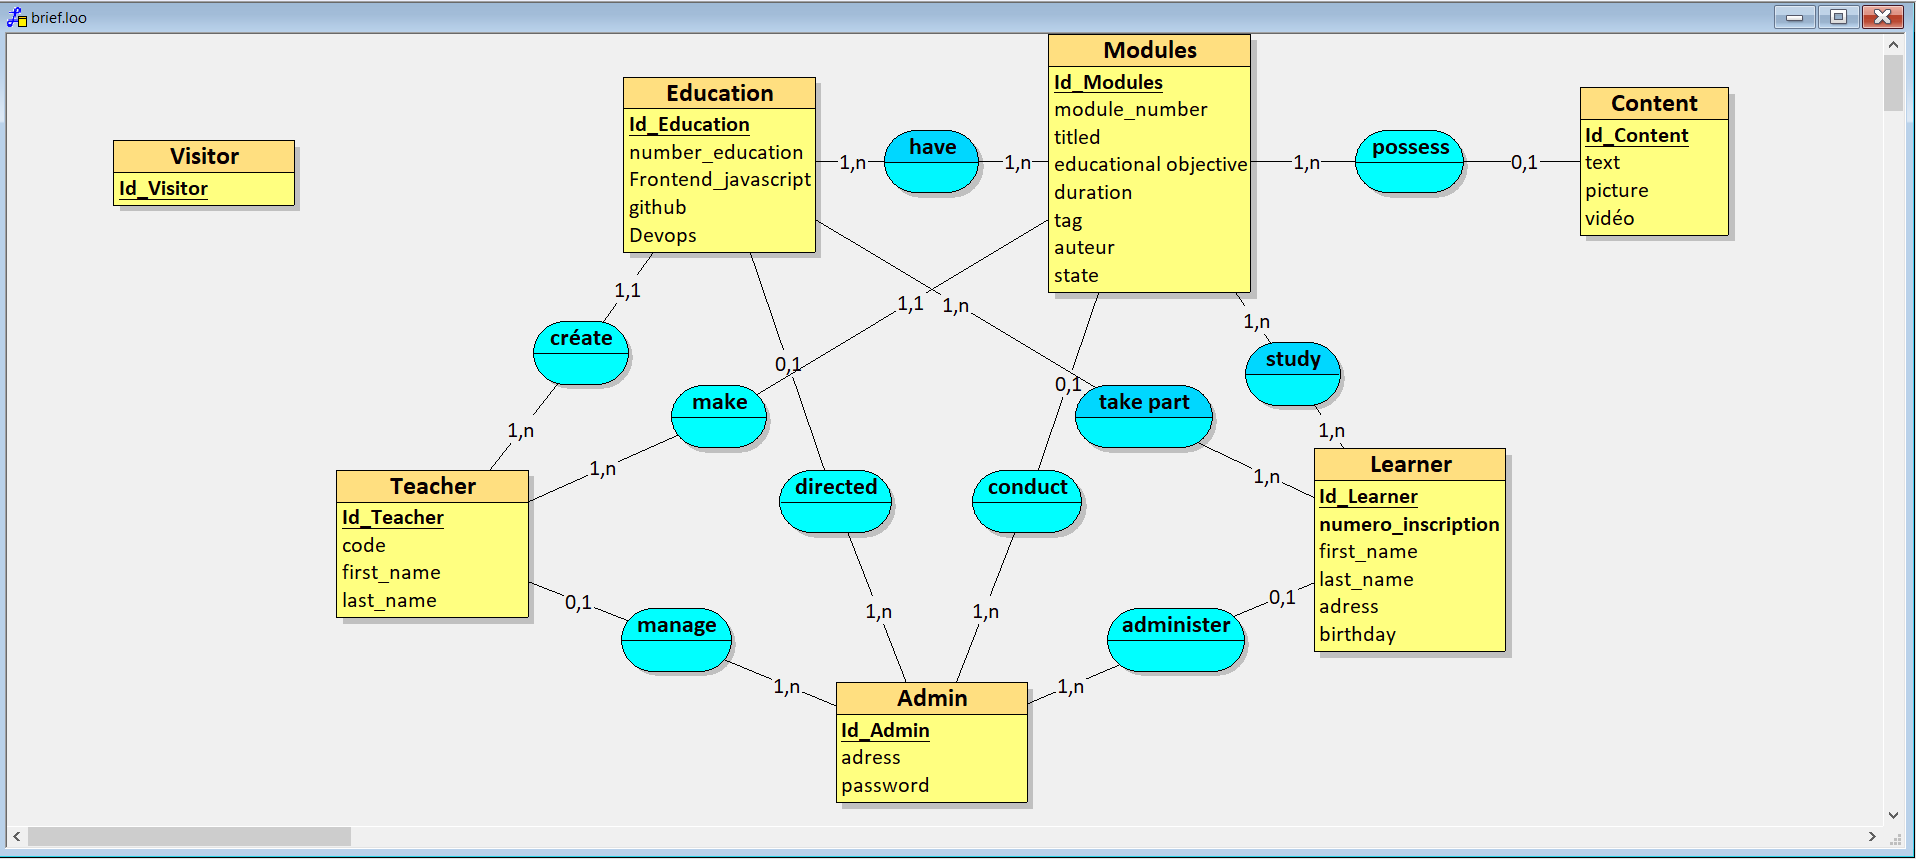
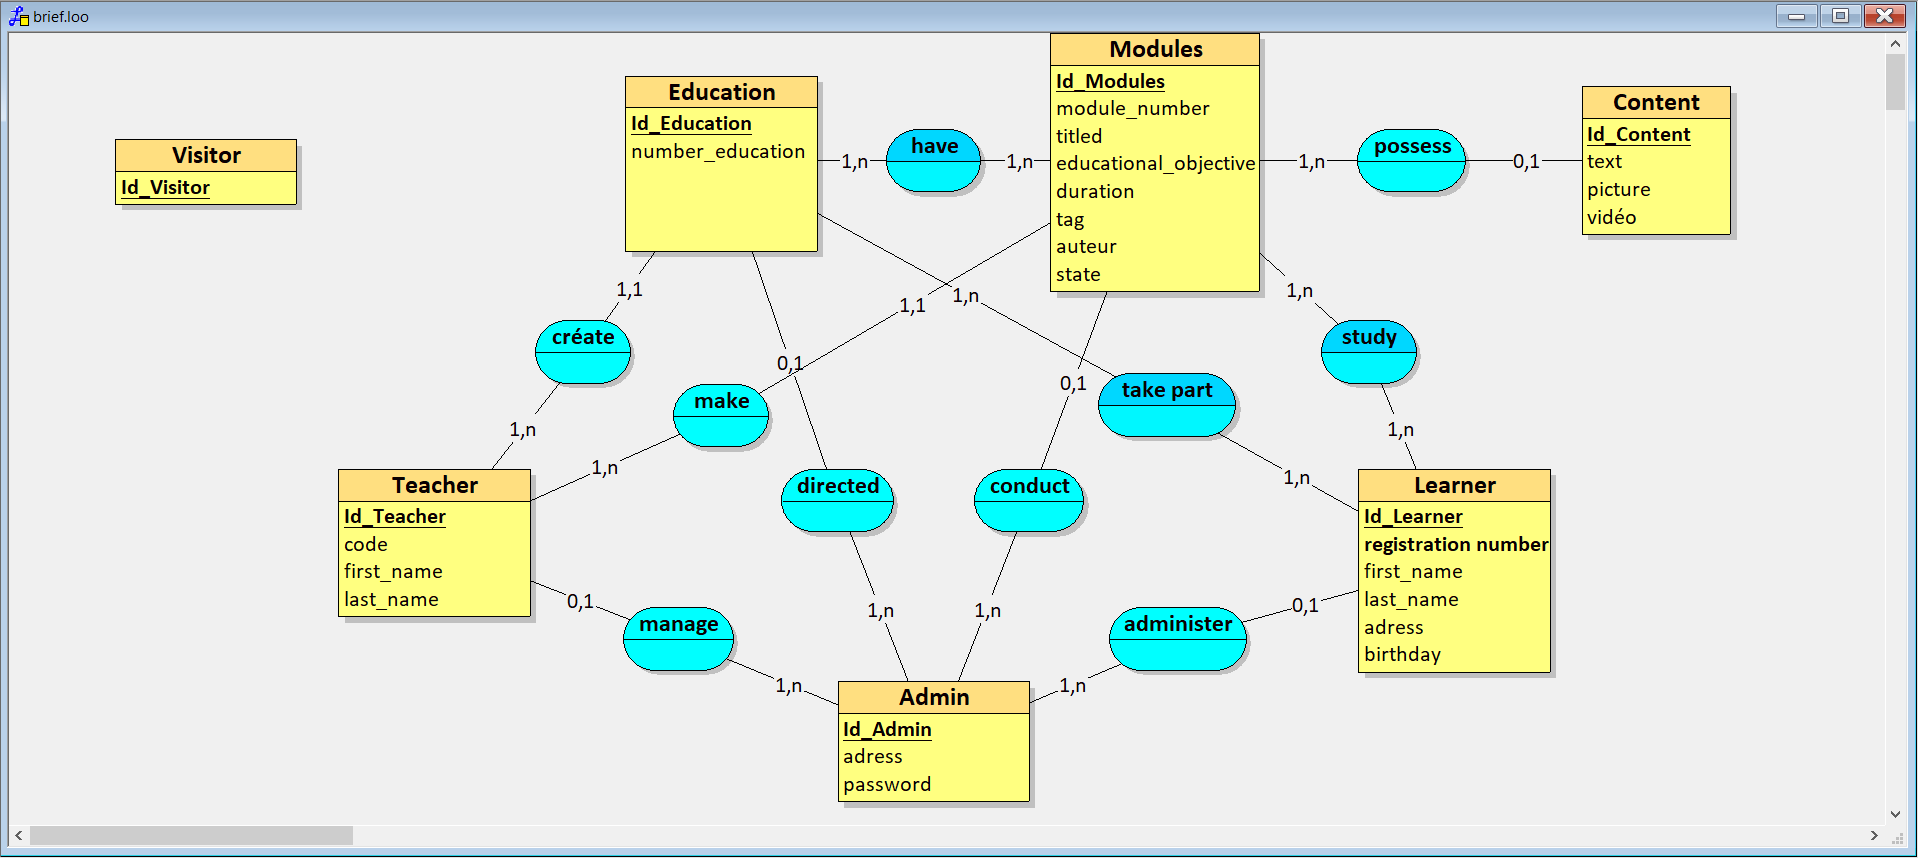
modification du MCD, MLD, et script SQL

diff --git a/data_dictonanry.md b/data_dictonanry.md
@@ -2,22 +2,24 @@
 
 | Name                        |  Type            |  Description
 | -------------------------    -----------------  --------------
-| numero_inscription          | counter          | the number of registrations of each student
-| nom                         | string           | the first name of each student 
-| prénom                      | string           | the last name of each student 
-| adrese                      | varchar(50)      | the adresse of each student 
-| date_naissance              | varchar(25)      | the birthday of each student 
-| id_Apprennant               | varchar(25)      | the id of each student 
-| id_formateur                | varchar(25)      | the id of each trainer
-| code                        | varchar(25)      | the code trainer
-| nom                         | string           | the first name of each trainer
-| prenom                      | string           | the last name of each trainer
-| id_formation                | varchar(25)      | the id of formation
-| numero_de_module            | int              | the number of each module
-| intitulé                    | varchar(25)      | the name of each module 
-| objectif_pédagogique        | varchar(25)      | the name of each educational objective
-| contenu                     | varchar(255)     | the module content
-| tag                         | string           | the tag 
-| auteur                      | string           | the author of module
-| durée                       | int              | the module duration
-| id_module                   | int              | the id of module
+| code         | counter          | the number of registrations of each student
+| first_name                         | string           | the first name of each student 
+| last_name                      | string           | the last name of each student 
+| id_teacher                      | varchar(50)      | the adresse of each student 
+| adress              | varchar(25)      | the birthday of each student 
+| password               | varchar(25)      | the id of each student 
+| id_admin               | varchar(25)      | the id of each trainer
+| numero_inscription                        | varchar(25)      | the code trainer
+| birthday                         | string           | the first name of each trainer
+| text                      | string           | the last name of each trainer
+| picture                | varchar(25)      | the id of formation
+| vidéo            | int              | the number of each module
+| id_content                    | varchar(25)      | the name of each module 
+| module_number        | varchar(25)      | the name of each educational objective
+| titled                     | varchar(255)     | the module content
+| educational_objective                         | string           | the tag 
+| duration                      | string           | the author of module
+| tag                       | int              | the module duration
+| auteur                   | int              | the id of module
+| state                  | int              | the id of module
+| id_modules                   | int              | the id of module
